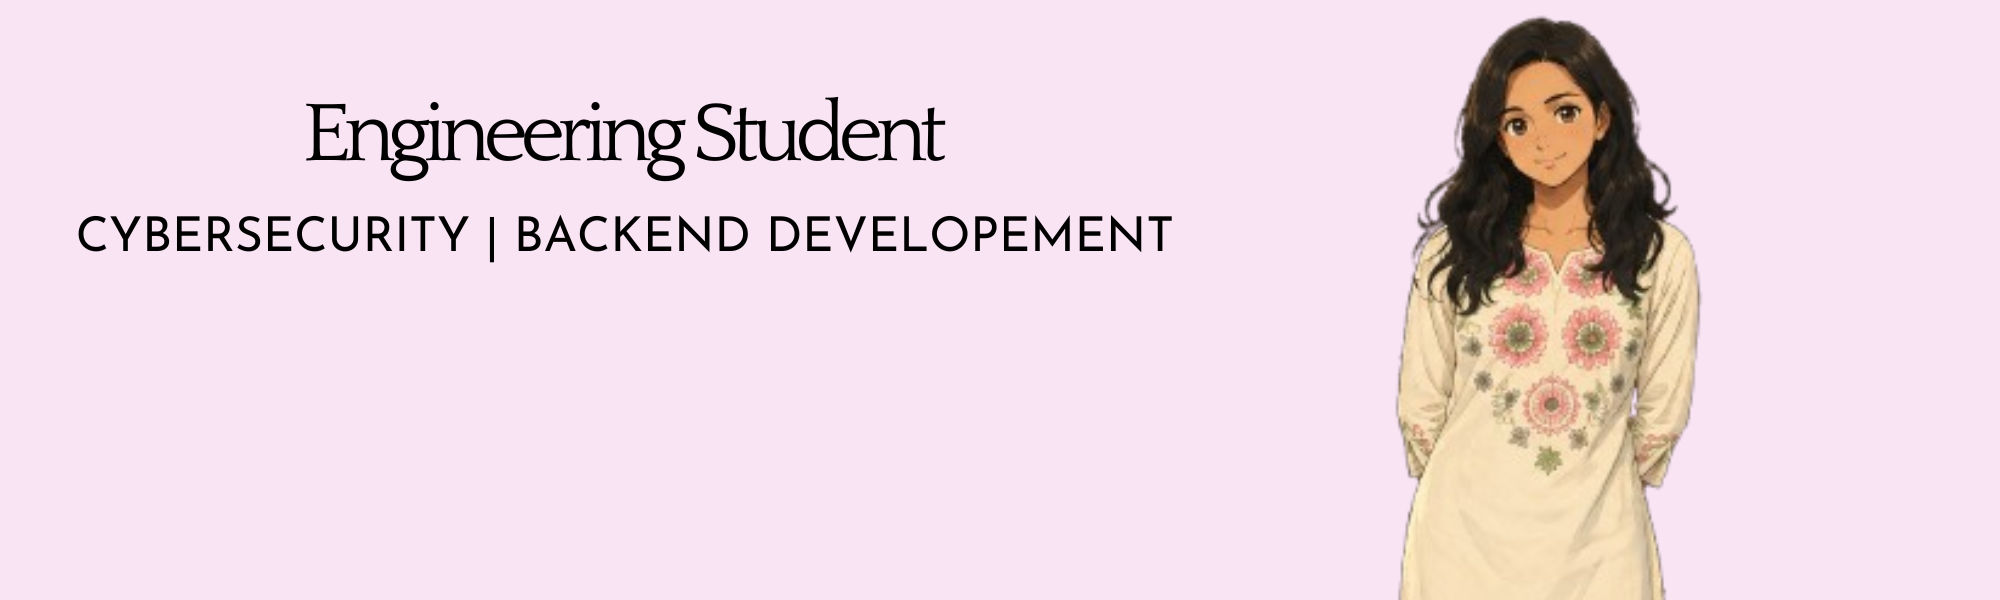
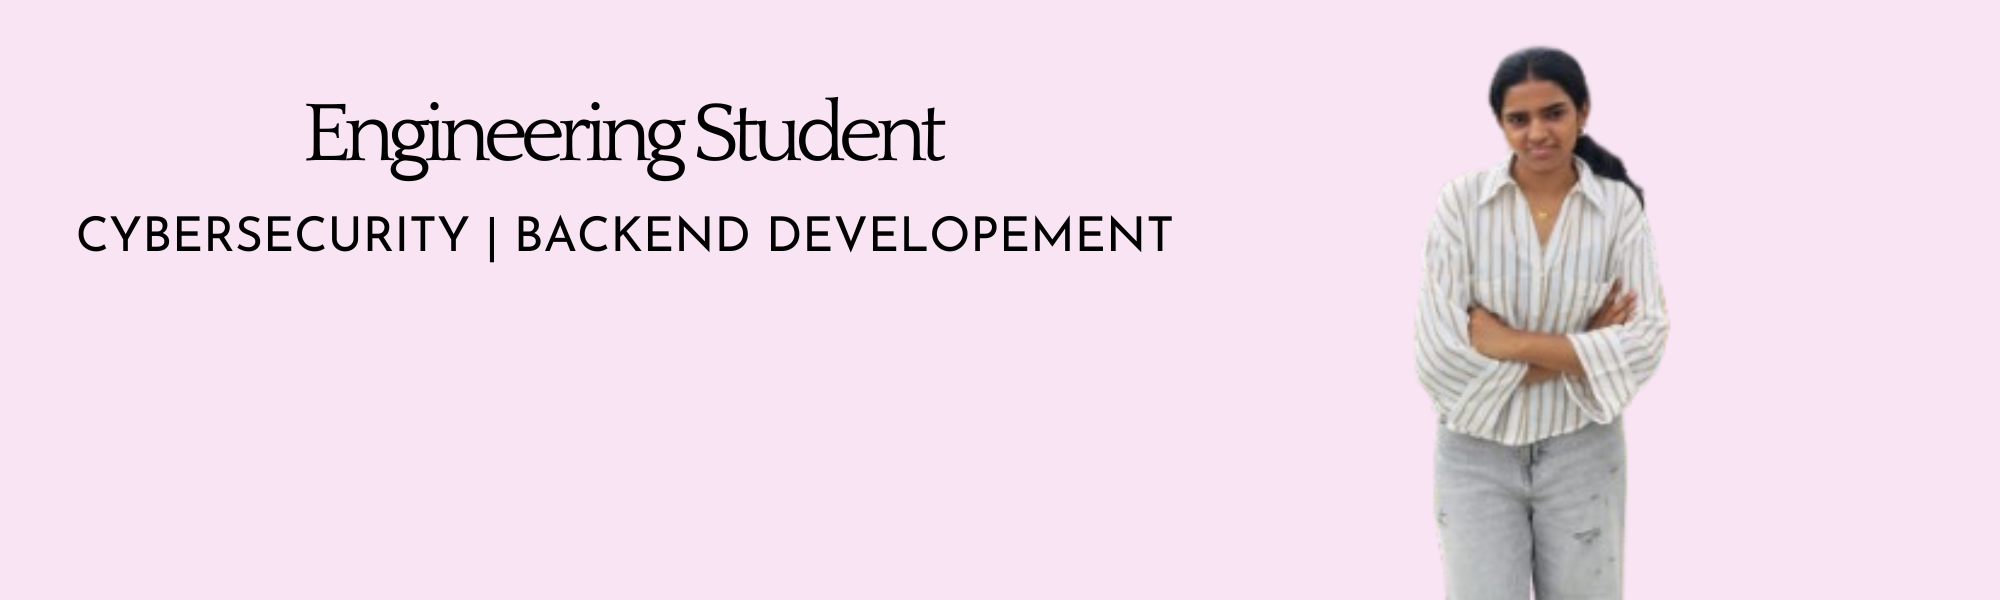
change

Changed region(s): [[0.682, 0.03, 0.868, 1.0]]

diff --git a/README.md b/README.md
@@ -1,5 +1,5 @@
   <h1>Hi, I’m Lavanya stephy 👋🏾 👩🏾💻</h1>
-<img src="https://raw.githubusercontent.com/Lavanya-stephy/lavanya-stephy/main/Engineering_Student2.png" width="100%" alt="Lavanya Stephy">I'm a second-year Computer Science Engineering (Cybersecurity) student with a strong interest in backend development and cybersecurity. I enjoy learning how systems work, building secure and efficient applications, and solving real-world problems through technology. I'm constantly exploring new tools and technologies to improve my skills and grow as a software developer. My goal is to create reliable, scalable, and secure solutions while continuously learning and taking on new challenges.
+<img src="https://raw.githubusercontent.com/Lavanya-stephy/lavanya-stephy/main/Engineering%20Student.png" alt="Banner">I'm a second-year Computer Science Engineering (Cybersecurity) student with a strong interest in backend development and cybersecurity. I enjoy learning how systems work, building secure and efficient applications, and solving real-world problems through technology. I'm constantly exploring new tools and technologies to improve my skills and grow as a software developer. My goal is to create reliable, scalable, and secure solutions while continuously learning and taking on new challenges.
 <h2 id="find-me-around-the-web-">Find me around the web 🌎: <a href="https://github.com/sponsors/M0nica"><img align="left" width="150" height="150" src="https://github.com/M0nica/M0nica/blob/main/octomonica/m0nica-octocat-rotating.gif?raw=true"></a></h2>
 <ul>
 <li>LinkedIn: <a href="https://linkedin.com/in/lavanya-stephy">Lavanya-stephy</a></li>
